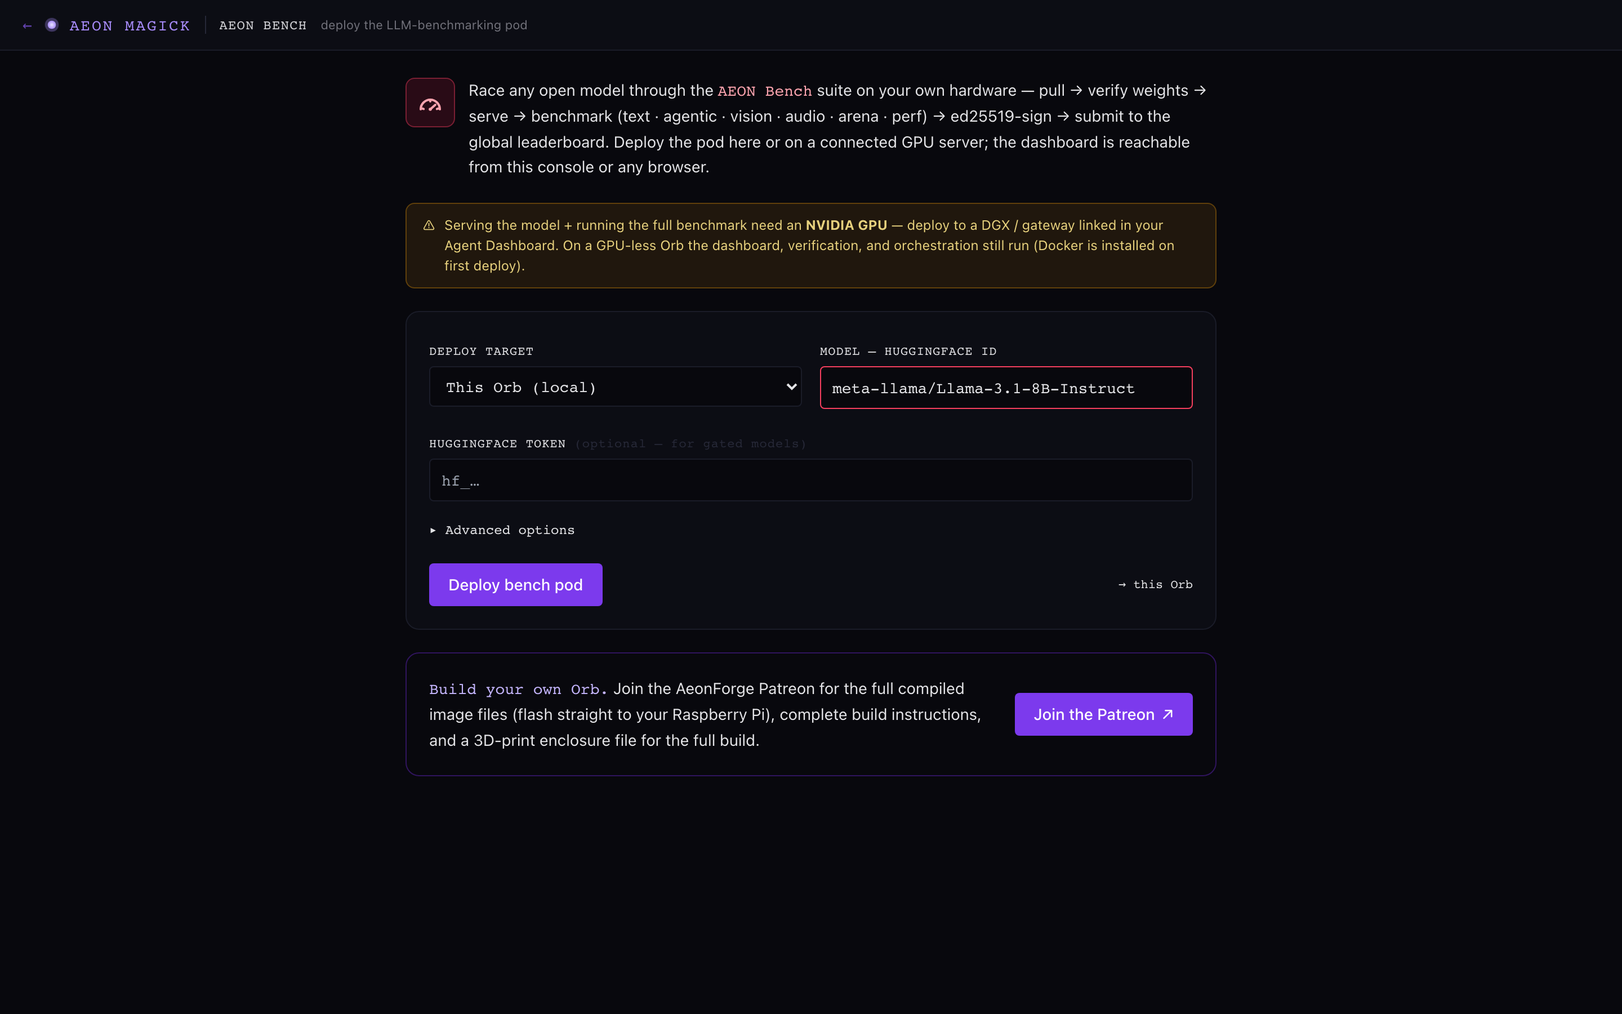
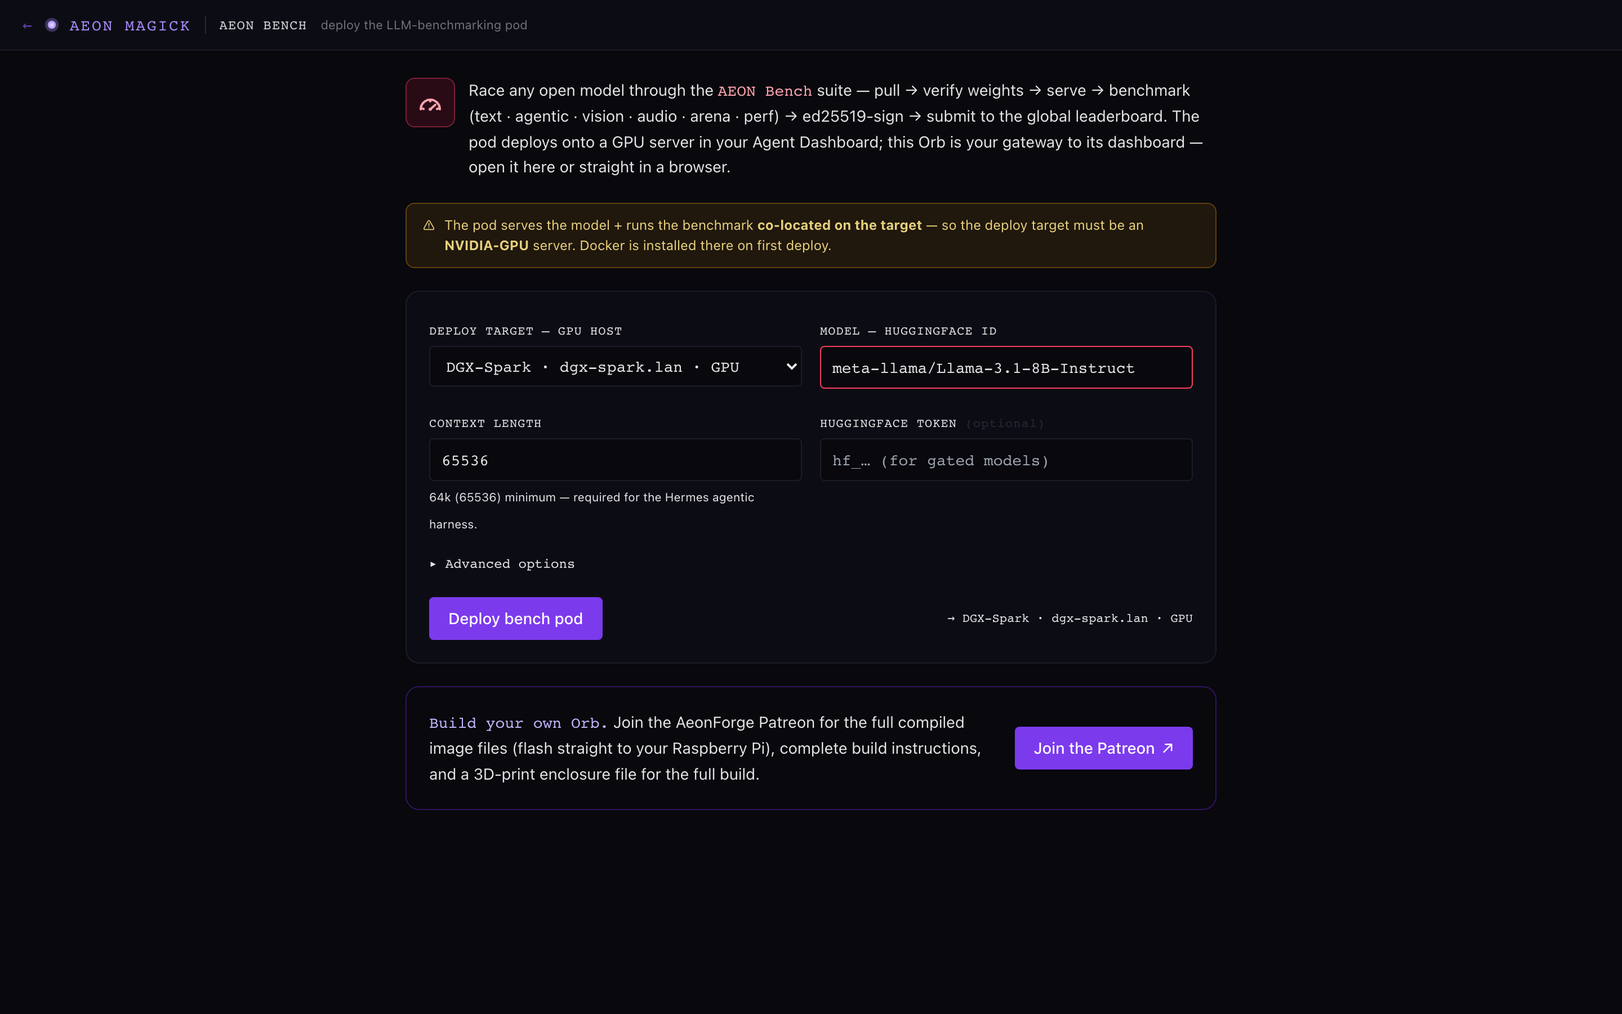
Aeon Bench: deploy to a GPU host (pod + model co-located), Pi is the gateway
The Aeon Bench Pod serves the model AND runs the benchmark on one host — it hits
http://127.0.0.1:8000 with network_mode: host and has no external-endpoint
override — and serving needs an NVIDIA GPU. So the pod can't run on the Pi.

- Deploy target is now a GPU server linked in the Agent Dashboard (the Pi/console
  is the gateway to it, not a deploy target). The "This Orb (local)" option only
  appears on the headless Orb-server build (which may itself have a GPU); on the
  Pi it never does.
- No server linked → the page shows a "Connect to model host" shortcut into the
  Agent Dashboard instead of the deploy form.
- Context length is a first-class field defaulting to 64k (65536) — the minimum
  the agentic Hermes harness needs; bench.rs also defaults AEON_MAX_MODEL_LEN to
  65536 server-side if unset, so it's never left below the pod's floor.
- Intro/GPU-note/README reworded: deploy on a GPU box, reach the dashboard from
  the console (the Orb is the gateway) or straight in a browser at
  http://<gpu-server>:8080. Screenshot refreshed.

Verified live on the Pi 4: with a host linked the deploy form renders (GPU
target + 65536 context); with none, the "Connect to model host" CTA shows.

diff --git a/aeon-web/src/routes/bench/+page.svelte b/aeon-web/src/routes/bench/+page.svelte
@@ -1,12 +1,15 @@
 <script lang="ts">
   // Aeon Bench — deploy the Aeon Bench Pod (open LLM benchmarking: pull → verify
-  // → serve → benchmark → sign → submit to the aeon-bench.com leaderboard) on
-  // THIS Orb or on a GPU server linked in the Agent Dashboard, then open the pod
-  // dashboard (:8080) from here or straight in a browser. Serving + the full
-  // benchmark need an NVIDIA GPU, so real runs target a connected GPU box.
+  // → serve → benchmark → sign → submit to the aeon-bench.com leaderboard). The
+  // pod serves the model + runs the benchmark CO-LOCATED on one host (it hits
+  // http://127.0.0.1:8000, network_mode: host — no external-endpoint override),
+  // and serving needs an NVIDIA GPU. So the pod deploys onto a GPU server linked
+  // in the Agent Dashboard; this Orb is the console/gateway to its dashboard
+  // (:8080), which also opens straight in a browser.
   import { onMount, onDestroy } from 'svelte';
   import PageHeader from '$lib/components/PageHeader.svelte';
   import Icon from '$lib/components/Icon.svelte';
+  import { serverMode } from '$lib/mode';
   import { toast } from '$lib/toast';
   import { confirmRite } from '$lib/confirm';
   import {
@@ -19,46 +22,57 @@
   } from '$lib/api';
 
   let systems: ConnectedSystem[] = [];
-  let target = 'local';
+  let target = '';
   let hfLink = '';
   let hfToken = '';
+  let maxLen = '65536'; // 64k — the Hermes agentic harness needs it; the pod won't go lower
   let showAdvanced = false;
-  // Advanced overrides → AEON_* env in the pod .env.
-  let adv = { AEON_MAX_MODEL_LEN: '', AEON_QUANT: '', AEON_MAX_TOKENS: '', AEON_DASH_PORT: '', AEON_MOTHERSHIP: '' };
+  let adv = { AEON_QUANT: '', AEON_MAX_TOKENS: '', AEON_DASH_PORT: '', AEON_MOTHERSHIP: '' };
 
   let st: BenchStatus | null = null;
   let deploying = false;
+  let lastTarget = '';
   let poll: ReturnType<typeof setInterval>;
+
+  // Valid deploy targets are GPU servers. On the headless Orb-server build the
+  // host itself can serve (if it has a GPU), so "local" is offered there; on the
+  // Pi console it never is — the pod goes to a connected box.
+  $: targetOptions = [
+    ...($serverMode ? [{ id: 'local', label: 'This server (local)' }] : []),
+    ...systems.map((s) => ({ id: s.id, label: `${s.label} · ${s.address}${s.roles?.includes('dgx') ? ' · GPU' : ''}` })),
+  ];
+  $: noHost = targetOptions.length === 0;
+  // Pick a default target once options exist; refresh whenever it changes.
+  $: if (!target && targetOptions.length) target = targetOptions[0].id;
+  $: if (target && target !== lastTarget) {
+    lastTarget = target;
+    st = null;
+    refresh();
+  }
 
   const ACTIVE = ['queued', 'cloning', 'updating', 'installing-docker', 'building'];
   $: phase = st?.phase ?? 'idle';
   $: busy = deploying || ACTIVE.includes(phase);
   $: running = !!st?.running || phase === 'running';
   $: dashPort = st?.dash_port ?? (Number(adv.AEON_DASH_PORT) || 8080);
-  // Remote target → its address; local → whatever host the console is served on.
   $: dashHost = st?.host ?? (typeof window !== 'undefined' ? window.location.hostname : 'localhost');
   $: dashUrl = `http://${dashHost}:${dashPort}`;
-  $: targetLabel = target === 'local' ? 'this Orb' : systems.find((s) => s.id === target)?.label ?? target;
+  $: targetLabel = targetOptions.find((o) => o.id === target)?.label ?? target;
 
   const PHASE_PCT: Record<string, number> = {
     queued: 5, cloning: 15, updating: 15, 'installing-docker': 30, building: 65, running: 100, failed: 100, stopped: 0, idle: 0,
   };
 
   async function refresh() {
+    if (!target) return;
     try {
       const r = await benchStatus(target);
       if (r?.ok) st = r;
     } catch {}
   }
-
   function startPolling() {
     clearInterval(poll);
     poll = setInterval(refresh, 3000);
-  }
-
-  async function onTargetChange() {
-    st = null;
-    await refresh();
   }
 
   async function deploy() {
@@ -66,8 +80,13 @@
       toast('Enter a HuggingFace model id like "org/model".', 'error');
       return;
     }
+    const len = Number(maxLen) || 65536;
+    if (len < 65536) {
+      toast('Context length must be at least 64k (65536) for the Hermes harness.', 'error');
+      return;
+    }
     deploying = true;
-    const env: Record<string, string> = {};
+    const env: Record<string, string> = { AEON_MAX_MODEL_LEN: String(len) };
     for (const [k, v] of Object.entries(adv)) if (v.trim()) env[k] = v.trim();
     try {
       const r = await benchDeploy({ target, hf_link: hfLink.trim(), hf_token: hfToken.trim() || undefined, env });
@@ -99,7 +118,6 @@
       const r = await listSystems();
       if (r?.ok) systems = r.systems ?? [];
     } catch {}
-    await refresh();
     startPolling();
   });
   onDestroy(() => clearInterval(poll));
@@ -121,96 +139,116 @@
         <Icon name="bench" class="w-6 h-6" />
       </div>
       <div class="text-sm text-ink-300 leading-relaxed">
-        Race any open model through the <span class="text-rose-300 font-mono">AEON Bench</span> suite on your own hardware —
+        Race any open model through the <span class="text-rose-300 font-mono">AEON Bench</span> suite —
         <span class="text-ink-200">pull → verify weights → serve → benchmark (text · agentic · vision · audio · arena · perf) → ed25519-sign → submit</span>
-        to the global leaderboard. Deploy the pod here or on a connected GPU server; the dashboard is reachable from this console or any browser.
+        to the global leaderboard. The pod deploys onto a <span class="text-ink-200">GPU server</span> in your Agent Dashboard; this Orb is your
+        gateway to its dashboard — open it here or straight in a browser.
       </div>
     </div>
 
-    <!-- GPU note -->
-    <div class="rounded-lg border border-amber-500/30 bg-amber-500/10 px-3.5 py-2.5 text-[12px] text-amber-200/90 flex gap-2">
-      <span aria-hidden="true">⚠</span>
-      <span>Serving the model + running the full benchmark need an <strong>NVIDIA GPU</strong> — deploy to a DGX / gateway linked in your Agent Dashboard. On a GPU-less Orb the dashboard, verification, and orchestration still run (Docker is installed on first deploy).</span>
-    </div>
+    {#if noHost}
+      <!-- No GPU server linked — the pod has nowhere to serve the model. -->
+      <div class="rounded-xl border border-rose-700/40 bg-rose-900/10 p-5 text-center space-y-3">
+        <div class="text-sm text-ink-200 leading-relaxed max-w-md mx-auto">
+          <span class="text-rose-300 font-mono">No model host connected.</span>
+          Aeon Bench serves the model <em>and</em> runs the benchmark together on one <strong>NVIDIA-GPU</strong> box —
+          the Pi has no GPU, so link a DGX / gateway to run it on.
+        </div>
+        <a href="/agent" class="inline-block btn-primary text-sm px-4 py-2 rounded">↳ Connect to model host</a>
+        <p class="text-[11px] text-ink-500">Add a system in the Agent Dashboard, then come back and deploy.</p>
+      </div>
+    {:else}
+      <!-- GPU note -->
+      <div class="rounded-lg border border-amber-500/30 bg-amber-500/10 px-3.5 py-2.5 text-[12px] text-amber-200/90 flex gap-2">
+        <span aria-hidden="true">⚠</span>
+        <span>The pod serves the model + runs the benchmark <strong>co-located on the target</strong> — so the deploy target must be an <strong>NVIDIA-GPU</strong> server. Docker is installed there on first deploy.</span>
+      </div>
 
-    <!-- deploy form -->
-    <div class="rounded-xl border border-ink-700 bg-ink-900 p-4 sm:p-5 space-y-4">
-      <div class="grid gap-4 sm:grid-cols-2">
-        <label class="block space-y-1">
-          <span class="text-[11px] uppercase tracking-wider text-ink-400 font-mono">Deploy target</span>
-          <select bind:value={target} on:change={onTargetChange} class="w-full bg-ink-950 border border-ink-700 rounded px-2.5 py-2 text-sm font-mono focus:border-rose-500 outline-none">
-            <option value="local">This Orb (local)</option>
-            {#each systems as s}
-              <option value={s.id}>{s.label} · {s.address}{s.roles?.includes('dgx') ? ' · GPU' : ''}</option>
+      <!-- deploy form -->
+      <div class="rounded-xl border border-ink-700 bg-ink-900 p-4 sm:p-5 space-y-4">
+        <div class="grid gap-4 sm:grid-cols-2">
+          <label class="block space-y-1">
+            <span class="text-[11px] uppercase tracking-wider text-ink-400 font-mono">Deploy target — GPU host</span>
+            <select bind:value={target} class="w-full bg-ink-950 border border-ink-700 rounded px-2.5 py-2 text-sm font-mono focus:border-rose-500 outline-none">
+              {#each targetOptions as o}
+                <option value={o.id}>{o.label}</option>
+              {/each}
+            </select>
+          </label>
+          <label class="block space-y-1">
+            <span class="text-[11px] uppercase tracking-wider text-ink-400 font-mono">Model — HuggingFace id</span>
+            <input bind:value={hfLink} placeholder="org/Model-Name" class="w-full bg-ink-950 border border-ink-700 rounded px-2.5 py-2 text-sm font-mono focus:border-rose-500 outline-none" />
+          </label>
+        </div>
+        <div class="grid gap-4 sm:grid-cols-2">
+          <label class="block space-y-1">
+            <span class="text-[11px] uppercase tracking-wider text-ink-400 font-mono">Context length</span>
+            <input bind:value={maxLen} inputmode="numeric" class="w-full bg-ink-950 border border-ink-700 rounded px-2.5 py-2 text-sm font-mono focus:border-rose-500 outline-none" />
+            <span class="text-[10.5px] text-ink-500">64k (65536) minimum — required for the Hermes agentic harness.</span>
+          </label>
+          <label class="block space-y-1">
+            <span class="text-[11px] uppercase tracking-wider text-ink-400 font-mono">HuggingFace token <span class="text-ink-600 normal-case">(optional)</span></span>
+            <input bind:value={hfToken} type="password" placeholder="hf_… (for gated models)" autocomplete="off" class="w-full bg-ink-950 border border-ink-700 rounded px-2.5 py-2 text-sm font-mono focus:border-rose-500 outline-none" />
+          </label>
+        </div>
+
+        <button type="button" class="text-[12px] text-ink-400 hover:text-cursed-300 font-mono" on:click={() => (showAdvanced = !showAdvanced)}>
+          {showAdvanced ? '▾' : '▸'} Advanced options
+        </button>
+        {#if showAdvanced}
+          <div class="grid gap-3 sm:grid-cols-2 pt-1">
+            {#each [['AEON_QUANT', 'Quantization', 'e.g. awq'], ['AEON_MAX_TOKENS', 'Max tokens', '2048'], ['AEON_DASH_PORT', 'Dashboard port', '8080'], ['AEON_MOTHERSHIP', 'Mothership URL', 'https://aeon-bench.com']] as [key, label, ph]}
+              <label class="block space-y-1">
+                <span class="text-[11px] text-ink-500 font-mono">{label}</span>
+                <input bind:value={adv[key]} placeholder={ph} class="w-full bg-ink-950 border border-ink-800 rounded px-2 py-1.5 text-[13px] font-mono focus:border-ink-600 outline-none" />
+              </label>
             {/each}
-          </select>
-        </label>
-        <label class="block space-y-1">
-          <span class="text-[11px] uppercase tracking-wider text-ink-400 font-mono">Model — HuggingFace id</span>
-          <input bind:value={hfLink} placeholder="org/Model-Name" class="w-full bg-ink-950 border border-ink-700 rounded px-2.5 py-2 text-sm font-mono focus:border-rose-500 outline-none" />
-        </label>
-      </div>
-      <label class="block space-y-1">
-        <span class="text-[11px] uppercase tracking-wider text-ink-400 font-mono">HuggingFace token <span class="text-ink-600 normal-case">(optional — for gated models)</span></span>
-        <input bind:value={hfToken} type="password" placeholder="hf_…" autocomplete="off" class="w-full bg-ink-950 border border-ink-700 rounded px-2.5 py-2 text-sm font-mono focus:border-rose-500 outline-none" />
-      </label>
+          </div>
+        {/if}
 
-      <button type="button" class="text-[12px] text-ink-400 hover:text-cursed-300 font-mono" on:click={() => (showAdvanced = !showAdvanced)}>
-        {showAdvanced ? '▾' : '▸'} Advanced options
-      </button>
-      {#if showAdvanced}
-        <div class="grid gap-3 sm:grid-cols-2 pt-1">
-          {#each [['AEON_MAX_MODEL_LEN', 'Max model len', 'e.g. 8192'], ['AEON_QUANT', 'Quantization', 'e.g. awq'], ['AEON_MAX_TOKENS', 'Max tokens', '2048'], ['AEON_DASH_PORT', 'Dashboard port', '8080'], ['AEON_MOTHERSHIP', 'Mothership URL', 'https://aeon-bench.com']] as [key, label, ph]}
-            <label class="block space-y-1">
-              <span class="text-[11px] text-ink-500 font-mono">{label}</span>
-              <input bind:value={adv[key]} placeholder={ph} class="w-full bg-ink-950 border border-ink-800 rounded px-2 py-1.5 text-[13px] font-mono focus:border-ink-600 outline-none" />
-            </label>
-          {/each}
+        <div class="flex items-center gap-3 pt-1">
+          <button class="btn-primary text-sm py-2 px-4 rounded inline-flex items-center gap-1.5 disabled:opacity-50" on:click={deploy} disabled={busy}>
+            {#if busy}<span class="inline-block h-3.5 w-3.5 rounded-full border-2 border-white/50 border-t-transparent animate-spin"></span>{/if}
+            {running ? 'Redeploy' : busy ? 'Deploying…' : 'Deploy bench pod'}
+          </button>
+          {#if running}
+            <button class="text-sm text-ink-400 hover:text-red-400 font-mono" on:click={stop}>stop pod</button>
+          {/if}
+          <span class="text-[11px] text-ink-500 font-mono ml-auto truncate max-w-[14rem]">→ {targetLabel}</span>
+        </div>
+      </div>
+
+      <!-- status / progress -->
+      {#if st && phase !== 'idle'}
+        <div class="rounded-xl border {phase === 'failed' ? 'border-red-800/60' : running ? 'border-emerald-600/40' : 'border-ink-700'} bg-ink-900 p-4 sm:p-5 space-y-3">
+          <div class="flex items-center justify-between gap-2">
+            <span class="font-mono text-sm {phase === 'failed' ? 'text-red-300' : running ? 'text-emerald-300' : 'text-amber-300'}">
+              {#if running}● Pod running on {targetLabel}{:else if phase === 'failed'}⚠ Deploy failed{:else if phase === 'stopped'}Pod stopped{:else}{phase}…{/if}
+            </span>
+            {#if busy}<span class="tabular-nums text-[11px] text-ink-400">{PHASE_PCT[phase] ?? 0}%</span>{/if}
+          </div>
+          {#if busy}
+            <div class="h-2 rounded-full bg-ink-800 overflow-hidden">
+              <div class="h-full rounded-full bg-gradient-to-r from-rose-600 to-rose-400 transition-all duration-500" style="width:{PHASE_PCT[phase] ?? 0}%"></div>
+            </div>
+            <p class="text-[11px] text-ink-500">Building the pod images + pulling weights can take several minutes on the first run.</p>
+          {/if}
+
+          {#if running}
+            <div class="flex flex-wrap items-center gap-2 pt-1">
+              <a href={dashUrl} target="_blank" rel="noopener" class="btn-primary text-sm py-1.5 px-3 rounded inline-flex items-center gap-1">Open Dashboard <span aria-hidden="true">↗</span></a>
+              <a href={dashUrl} target="_blank" rel="noopener" class="text-[12px] text-cursed-300 hover:text-cursed-200 font-mono break-all">{dashUrl}</a>
+            </div>
+          {/if}
+
+          {#if st.log}
+            <details class="text-[11px]">
+              <summary class="cursor-pointer text-ink-500 hover:text-ink-300 font-mono">deploy log</summary>
+              <pre class="mt-1.5 whitespace-pre-wrap break-all font-mono text-[10.5px] leading-snug text-ink-400 bg-ink-950 border border-ink-800 rounded p-2 max-h-56 overflow-y-auto">{st.log}</pre>
+            </details>
+          {/if}
         </div>
       {/if}
-
-      <div class="flex items-center gap-3 pt-1">
-        <button class="btn-primary text-sm py-2 px-4 rounded inline-flex items-center gap-1.5 disabled:opacity-50" on:click={deploy} disabled={busy}>
-          {#if busy}<span class="inline-block h-3.5 w-3.5 rounded-full border-2 border-white/50 border-t-transparent animate-spin"></span>{/if}
-          {running ? 'Redeploy' : busy ? 'Deploying…' : 'Deploy bench pod'}
-        </button>
-        {#if running}
-          <button class="text-sm text-ink-400 hover:text-red-400 font-mono" on:click={stop}>stop pod</button>
-        {/if}
-        <span class="text-[11px] text-ink-500 font-mono ml-auto">→ {targetLabel}</span>
-      </div>
-    </div>
-
-    <!-- status / progress -->
-    {#if st && phase !== 'idle'}
-      <div class="rounded-xl border {phase === 'failed' ? 'border-red-800/60' : running ? 'border-emerald-600/40' : 'border-ink-700'} bg-ink-900 p-4 sm:p-5 space-y-3">
-        <div class="flex items-center justify-between gap-2">
-          <span class="font-mono text-sm {phase === 'failed' ? 'text-red-300' : running ? 'text-emerald-300' : 'text-amber-300'}">
-            {#if running}● Pod running on {targetLabel}{:else if phase === 'failed'}⚠ Deploy failed{:else if phase === 'stopped'}Pod stopped{:else}{phase}…{/if}
-          </span>
-          {#if busy}<span class="tabular-nums text-[11px] text-ink-400">{PHASE_PCT[phase] ?? 0}%</span>{/if}
-        </div>
-        {#if busy}
-          <div class="h-2 rounded-full bg-ink-800 overflow-hidden">
-            <div class="h-full rounded-full bg-gradient-to-r from-rose-600 to-rose-400 transition-all duration-500" style="width:{PHASE_PCT[phase] ?? 0}%"></div>
-          </div>
-          <p class="text-[11px] text-ink-500">Building the pod images + pulling weights can take several minutes on the first run.</p>
-        {/if}
-
-        {#if running}
-          <div class="flex flex-wrap items-center gap-2 pt-1">
-            <a href={dashUrl} target="_blank" rel="noopener" class="btn-primary text-sm py-1.5 px-3 rounded inline-flex items-center gap-1">Open Dashboard <span aria-hidden="true">↗</span></a>
-            <a href={dashUrl} target="_blank" rel="noopener" class="text-[12px] text-cursed-300 hover:text-cursed-200 font-mono break-all">{dashUrl}</a>
-          </div>
-        {/if}
-
-        {#if st.log}
-          <details class="text-[11px]">
-            <summary class="cursor-pointer text-ink-500 hover:text-ink-300 font-mono">deploy log</summary>
-            <pre class="mt-1.5 whitespace-pre-wrap break-all font-mono text-[10.5px] leading-snug text-ink-400 bg-ink-950 border border-ink-800 rounded p-2 max-h-56 overflow-y-auto">{st.log}</pre>
-          </details>
-        {/if}
-      </div>
     {/if}
 
     <!-- Patreon -->

diff --git a/aeon-supervisor/src/bench.rs b/aeon-supervisor/src/bench.rs
@@ -124,17 +124,25 @@ fn build_env_file(req: &DeployReq) -> String {
         lines.push(format!("HF_TOKEN={}", clean_val(&req.hf_token)));
     }
     let mut have_port = false;
+    let mut have_maxlen = false;
     for (k, v) in &req.env {
         if !env_key_ok(k) || matches!(k.as_str(), "AEON_HF_LINK" | "HF_TOKEN") {
             continue;
         }
-        if k == "AEON_DASH_PORT" {
-            have_port = true;
+        match k.as_str() {
+            "AEON_DASH_PORT" => have_port = true,
+            "AEON_MAX_MODEL_LEN" => have_maxlen = true,
+            _ => {}
         }
         lines.push(format!("{}={}", k, clean_val(v)));
     }
     if !have_port {
         lines.push(format!("AEON_DASH_PORT={DEFAULT_DASH_PORT}"));
+    }
+    // The agentic Hermes harness needs a 64k context; the pod itself refuses
+    // anything under 65536 — so default it, never leaving it unset.
+    if !have_maxlen {
+        lines.push("AEON_MAX_MODEL_LEN=65536".to_string());
     }
     lines.join("\n") + "\n"
 }

diff --git a/README.md b/README.md
@@ -422,22 +422,25 @@ HuggingFace model and it runs the whole flow: **pull → verify weights → serv
 benchmark** (text · agentic across three harnesses · vision · audio · arena · perf)
 **→ ed25519-sign → submit** an attested run to the global leaderboard.
 
-![Aeon Bench — pick a deploy target (this Orb or a connected GPU server), a HuggingFace model + optional token, and deploy the benchmarking pod; the dashboard opens from the console or a browser](docs/images/aeon-bench.png)
+![Aeon Bench — pick a GPU server as the deploy target, a HuggingFace model + optional token, set the 64k context, and deploy the benchmarking pod; the dashboard opens from the console or a browser](docs/images/aeon-bench.png)
 
-**Deploy it wherever the compute is.** Pick a target — **this Orb** or any **GPU
-server linked in your [Agent Dashboard](#agent-dashboard--token-telemetry)** (a DGX
-Spark, a gateway) — punch in the model (and an optional HuggingFace token for gated
-weights), and hit deploy. The Orb writes the pod's `.env` and brings the
-docker-compose stack up on the target over the same outbound SSH key it uses for
-model push; Docker is installed on first run if it's missing. Serving + the full
-benchmark need an **NVIDIA GPU**, so real runs target a GPU box — a GPU-less Orb still
-hosts the dashboard, verification, and orchestration.
+**Deploy it on a GPU server; the Orb is your gateway.** The pod serves the model
+**and** runs the benchmark co-located on one host (it hits `127.0.0.1:8000`,
+host-networked — there's no external-endpoint split), and serving needs an **NVIDIA
+GPU** — so the pod deploys onto a **GPU server linked in your
+[Agent Dashboard](#agent-dashboard--token-telemetry)** (a DGX Spark, a gateway), not
+the Pi. Pick that target, punch in the model (and an optional HuggingFace token for
+gated weights), and hit deploy: the Orb writes the pod's `.env` and brings the
+docker-compose stack up over the same outbound SSH key it uses for model push,
+installing Docker on first run if it's missing. **No server linked yet?** The page
+shows a **Connect to model host** shortcut into the Agent Dashboard. Context length
+defaults to **64k (65536)** — the minimum the agentic **Hermes** harness needs.
 
 **Reach the dashboard your way.** Once the pod is up, its dashboard (port 8080 —
-launch runs, manage signing keys, watch live progress) is one click from the console,
-or open it **directly in any browser** at `http://<host>:8080`. The console polls the
-deploy through its phases (cloning → building → running) with a live log, and
-`stop` tears the stack back down.
+launch runs, manage signing keys, watch live progress) is one click from the console
+— **your Orb is the gateway to it** — or open it **directly in any browser** at
+`http://<gpu-server>:8080`. The console polls the deploy through its phases (cloning →
+building → running) with a live log, and `stop` tears the stack back down.
 
 ---
 
